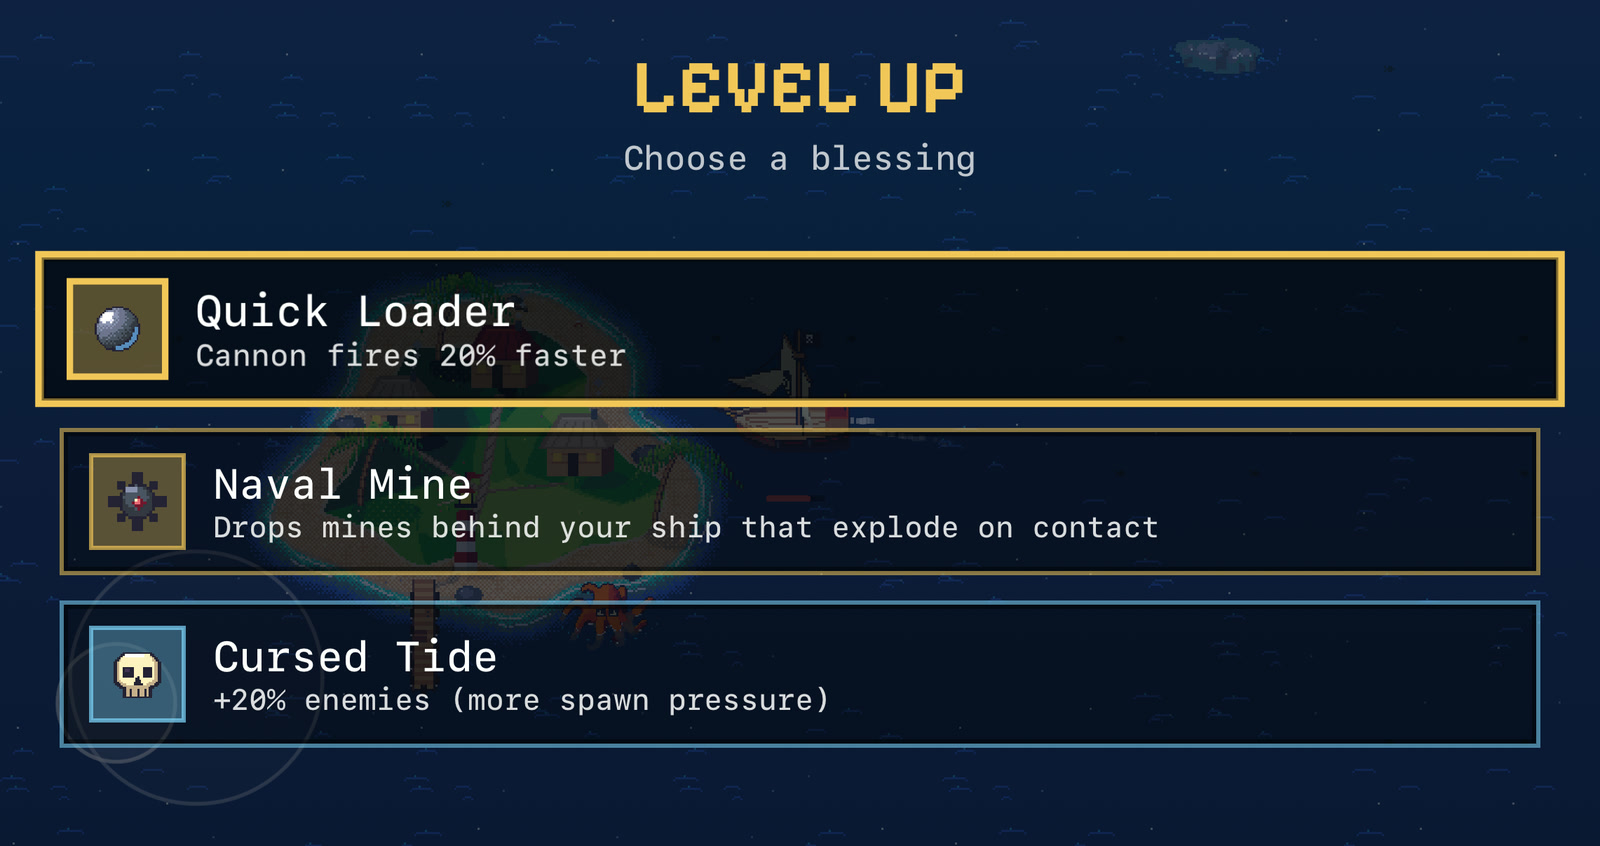
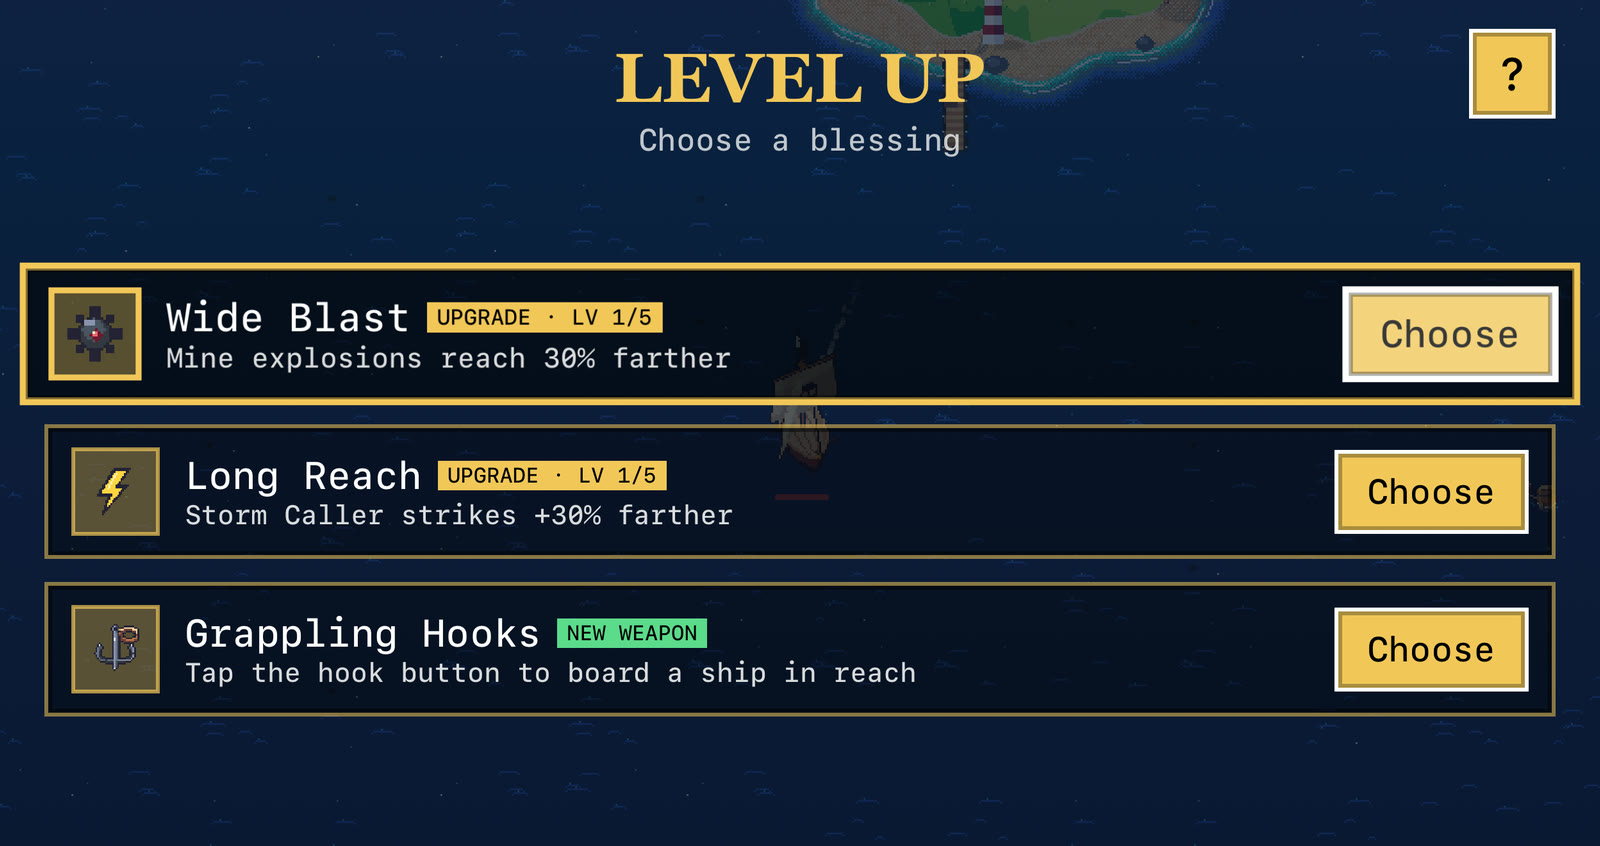
feat: update Pirate Survivors pages for the 1.0 App Store release
Privacy now describes the optional run reports, which the game started
sending after these pages were written. Support and the landing page
match the current game: the Swift Sloop, a boss every ten levels, the
Ferryman at level 60 with three chains, and the new Settings. New title
screen and level-up images.

diff --git a/content/apps/pirate-survivors/privacy.md b/content/apps/pirate-survivors/privacy.md
@@ -2,31 +2,47 @@
 title: Privacy Policy
 ---
 
-_Last updated: October 26, 2026_
+_Last updated: November 1, 2026_
 
 This policy covers **Pirate Survivors: Cursed Seas** for iPhone and iPad, developed by Florian Ludot.
 
 ## In short
 
-The game does not collect any personal data. It works offline, needs no account, and contains no ads, tracking, third-party analytics or in-app purchases.
+The game works offline and needs no account. It contains no ads, tracking, third-party analytics or in-app purchases. It sends nothing to the developer unless you choose to send a run report.
 
 ## Data stored on your device
 
-Your scores, survival times, levels, kill counts, run dates, chosen ship, Endless unlock and sound and haptics settings are saved locally on your device so the game can show your Captain's Ledger and remember your preferences. This information is never sent to the developer or to any server operated for the game.
+Your Ledger scores, survival times, levels, kill counts, run dates, doubloons, a random player ID and your sound and haptics settings are saved on your device so the game can show your Ledger and remember your preferences.
 
 Your device may include this data in backups made by iCloud or your computer. Those backups are handled by Apple or by you, not by the developer.
 
 You can delete all of this data at any time by deleting the app.
 
+## Run reports
+
+When a run ends you can tap **Send Run Report**, then **Send**. Only then does the game send that run's report to the developer. A report contains:
+
+- what happened during the run: ship, blessings, enemies, damage, choices, time and result;
+- your answers to the optional questions: how fun it was, how hard it was, and a short note if you write one;
+- your play history in the game: number of runs, escapes, best level and time at sea;
+- your device model, iOS or iPadOS version and screen size, and the game version;
+- a random player ID created by the game.
+
+The player ID is not tied to your name, your Apple Account or any other app. Reports are not linked to you, are not used for tracking or advertising, and are used only to balance and improve the game. They are received and stored by Cloudflare, which hosts the service for the developer.
+
+If a report can't be sent (for example when you're offline), the game keeps it on your device and sends it the next time you open the game.
+
+To have your reports deleted, contact the developer with the run code shown after sending, or the approximate date and time of the run.
+
 ## Support and feedback
 
-If you contact the developer on X (Twitter), the developer receives your username and whatever you choose to include, and uses it only to reply and investigate the issue. Your message is also handled by X under [its own privacy policy](https://x.com/privacy). Please don't include personal information that isn't needed.
+After sending a run report you can choose to email the developer or message them on X. If you do, the developer receives your email address or username and whatever you choose to include, and uses it only to reply and investigate the issue. Messages on X are also handled by X under [its own privacy policy](https://x.com/privacy). Please don't include personal information that isn't needed.
 
 If you test a beta through TestFlight, Apple may collect diagnostics, crash reports and feedback under its own terms. Information that Apple shares with the developer is used only to fix bugs and improve the game. See [Apple's privacy policy](https://www.apple.com/legal/privacy/).
 
 ## Children
 
-The game does not knowingly collect information from anyone, including children.
+The game does not knowingly collect personal information from anyone, including children. Run reports contain no names, contact details or account information.
 
 ## Changes
 
@@ -34,4 +50,4 @@ If the game's data practices change, this page will be updated and the date abov
 
 ## Contact
 
-Questions about this policy: [@florianldt on X (Twitter)](https://x.com/florianldt).
+Questions about this policy: [piratesurvivors@florianldt.com](mailto:piratesurvivors@florianldt.com) or [@florianldt on X (Twitter)](https://x.com/florianldt).

diff --git a/content/apps/pirate-survivors/_index.md b/content/apps/pirate-survivors/_index.md
@@ -4,7 +4,7 @@ description: Pixel-art survival at sea for iPhone and iPad.
 layout: app
 weight: 3
 params:
-  tagline: Sail into cursed waters. Build your arsenal. Survive the swarm.
+  tagline: Sail into cursed waters. Bring the flames home. Survive the swarm.
   # Set once the app is live, e.g. https://apps.apple.com/app/id6826757074
   appStoreURL: ""
   # Shown instead of "Coming soon" until appStoreURL is set
@@ -20,24 +20,24 @@ params:
       video: gameplay.mp4
       alt: Gameplay montage from casting off at the home port, through level 10 and level 30 battles, to outrunning the Ferryman to the lighthouse
     - src: home-port.jpg
-      alt: The title screen, with the chosen ship moored at the home port's pier
+      alt: The title screen, with the Swift Sloop moored at the home port's pier
     - src: blessing.jpg
       alt: Choosing a blessing after levelling up
   features:
-    - title: Pick your ship
-      text: Five free ships wait at your home port, from the nimble Swift Sloop to the armoured Geobukseon, a Korean turtle ship. Each has its own hull, speed and starting weapons.
-    - title: Build your loadout
-      text: Combine cannon volleys, orbiting cannonballs, naval mines, lashing tentacles and lightning, and evolve them into stronger forms. Pick upgrades and passives to shape every run.
-    - title: Face the cursed seas
-      text: Battle raiders, corsairs, sea creatures, ghost-ship bosses and the Kraken across animated waters and islands. Keep moving and see how long you can hold out.
+    - title: Bring the flames home
+      text: The lighthouse went dark, and five drowned captains stole its flames. Cast off in the Swift Sloop, sink them one by one, and hear what each has to say before the fight.
+    - title: Build your arsenal
+      text: Combine cannon volleys, grapeshot, orbiting cursed cannonballs, naval mines and chain lightning, and evolve them into the Explosive Cannon and the Storm Compass. Throw grappling hooks to board passing ships.
+    - title: Face the drowned captains
+      text: A boss every ten levels, in a new order each voyage, among raiders, gunships, krakens and pufferfish. Ride out the swells and keep moving.
     - title: Hunt and gamble
-      text: Race to guarded treasure before it sinks, or strike a bargain at a cursed island shrine for a bonus blessing. Both are optional.
+      text: Follow treasure maps to gold buried on distant islands, or strike a bargain at a cursed island shrine for a bonus blessing. Both are optional.
     - title: Escape the Ferryman
-      text: Reach level 50, then outrun the Ferryman's flagship to the lighthouse harbour. Escape once to unlock Endless, where the voyage never stops.
+      text: Reach level 60 and the Ferryman comes to collect. Slip through his soul-fire rings, break the three chains on his lantern and race to the blue harbor before time runs out.
     - title: Sail your way
-      text: Play with touch or a compatible controller, tune music, sound and haptics, and track every run in the Captain's Ledger, saved on your device.
+      text: Play with touch or a compatible controller, set music, sea, sound effects and menu sounds separately, and keep your best voyages in the Ledger, saved on your device.
 ---
 
-Steer a pirate ship through cursed waters while your weapons fire automatically. Collect doubloons, choose a new blessing each time you level up, and outlast the swarm.
+Steer a pirate ship through cursed waters while your weapons fire automatically. Gather soul-lights, choose a new blessing each time you level up, and outlast the swarm.
 
 Play offline on iPhone and iPad. No account, no ads, no in-app purchases.

diff --git a/content/apps/pirate-survivors/support.md b/content/apps/pirate-survivors/support.md
@@ -2,15 +2,17 @@
 title: Support
 ---
 
-Need help with **Pirate Survivors: Cursed Seas**? Send a message to [@florianldt on X (Twitter)](https://x.com/florianldt).
+Need help with **Pirate Survivors: Cursed Seas**? Email [piratesurvivors@florianldt.com](mailto:piratesurvivors@florianldt.com) or send a message to [@florianldt on X (Twitter)](https://x.com/florianldt).
 
-To help track down an issue, please include your device model, iOS or iPadOS version, the game version, and what happened. Steps to reproduce it and a screenshot are a big help.
+To help track down an issue, please include your device model, iOS or iPadOS version, the game version (shown at the bottom of the title screen), and what happened. Steps to reproduce it and a screenshot are a big help. After a run you can also tap **Send Run Report**; the run code it shows helps find your report.
 
 TestFlight testers can also send feedback directly from TestFlight.
 
 ## How to play
 
-Choose a ship with the **<** and **>** arrows on the title screen (all five are free), then tap **Set Sail**. Your ship casts off from the home port; tap through the Captain's dialogue. Touch and drag anywhere in the game area to steer; your weapons fire automatically. Collect doubloons, and tap a blessing each time you level up.
+Tap **Set Sail** on the title screen. Your Swift Sloop casts off from the home port; tap through the Captain's dialogue. Touch and drag anywhere in the game area to steer; your weapons fire automatically. Gather the soul-lights that sunk enemies leave behind to fill the souls meter in the top-left corner, and tap a blessing each time you level up. Tap **?** on the level-up screen for a guide to every blessing.
+
+A boss comes every ten levels. Sink all five to bring the lighthouse's flames home, then survive the Ferryman at level 60: break his three chains and sail into the blue harbor before time runs out.
 
 ## Game controllers
 
@@ -18,4 +20,4 @@ Use the left stick to steer, the d-pad to move through menus, and the south face
 
 ## Settings and scores
 
-Use the pause button to resume, check your stats or return to port. Music, sound effects, menu sounds and haptics each have their own setting; haptics need a supported device. Your scores are kept on your device in the Captain's Ledger.
+Use the pause button to resume, check your stats or return to port. In **Settings**, music, the sea, sound effects and menu sounds each have their own volume (use **−** and **+**), and haptics can be switched on or off; haptics need a supported device. Your best voyages are kept on your device in the **Ledger**.
